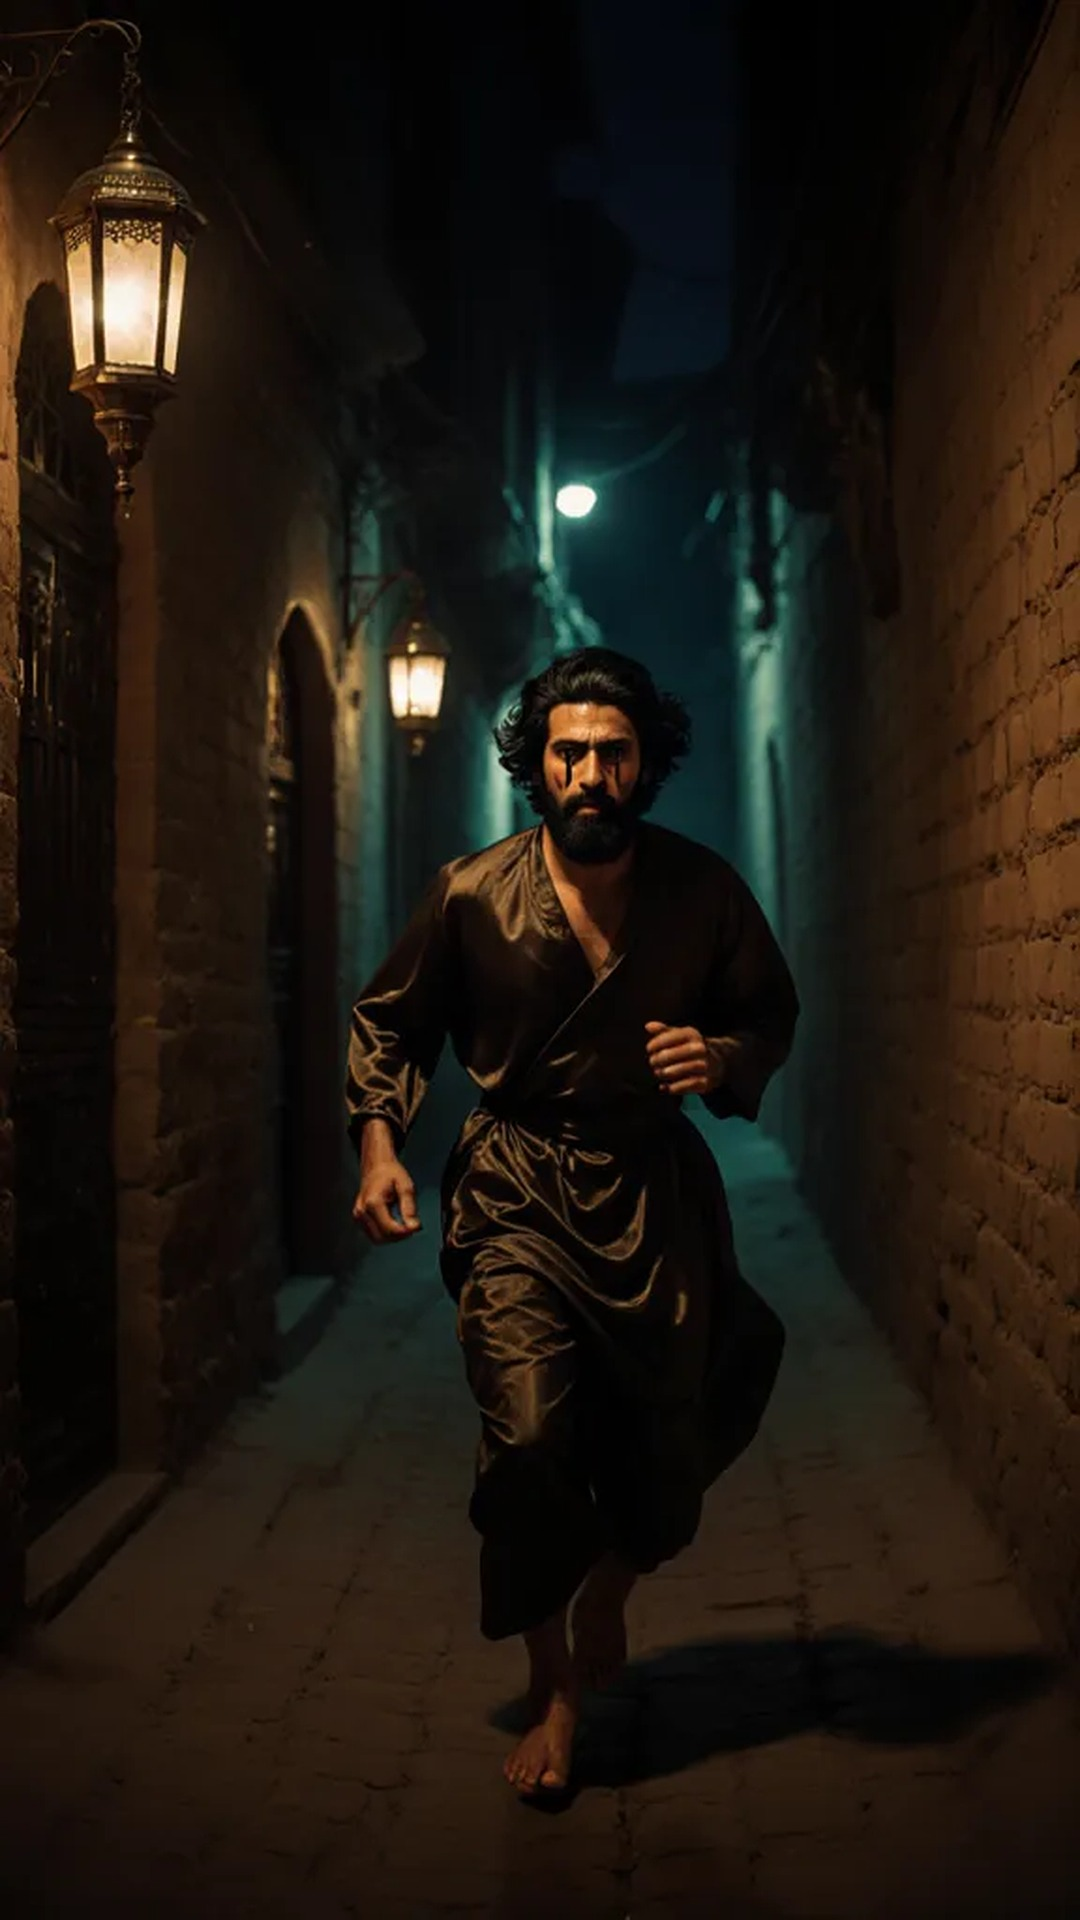
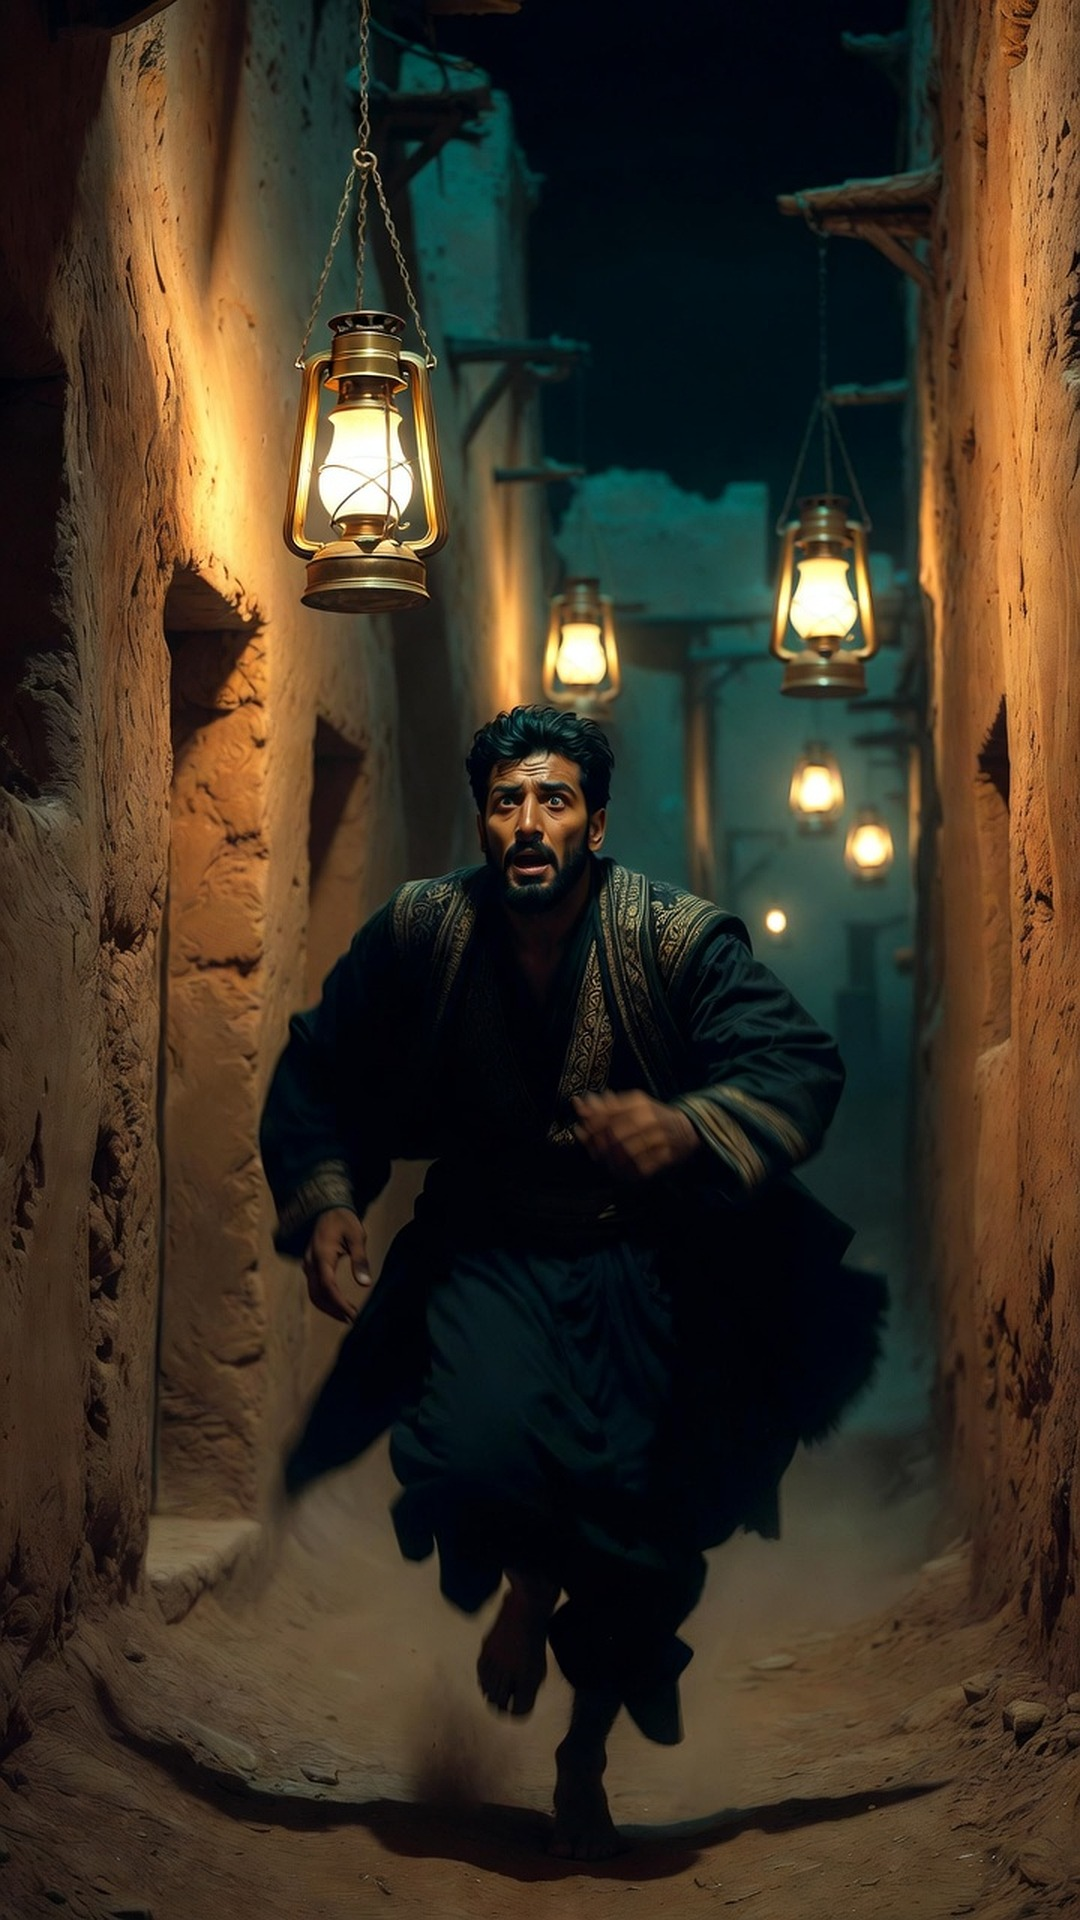
Bishr v2: user-generated shots replace repeats; one image per moment
Claude-Session: https://claude.ai/code/session_01WFvCcbMQgWaeBe2dqRC8qC

diff --git a/videos/bishr/film/data.js b/videos/bishr/film/data.js
@@ -1,1 +1,1 @@
-const DATA = {"duration": 81.589, "shots": [{"img": "B1", "a": 0.0, "b": 4.6, "m": "push", "bright": 1.18, "dust": 0.6, "shake": 0.3}, {"img": "B8", "a": 4.6, "b": 7.0, "m": "in", "dust": 0.8}, {"img": "B1", "a": 7.0, "b": 9.66, "m": "in", "bright": 1.15}, {"img": "B2", "a": 9.66, "b": 14.26, "m": "left", "flick": 0.8}, {"img": "B2c", "a": 14.26, "b": 18.501, "m": "in", "flick": 0.8}, {"img": "B3", "a": 18.501, "b": 22.101, "m": "in", "glow": [0.5, 0.43, 0.05], "rays": 0.3}, {"img": "B4", "a": 22.101, "b": 25.266, "m": "push", "flick": 0.5}, {"img": "B3c", "a": 25.266, "b": 29.866, "m": "push", "glow": [0.5, 0.4, 0.09], "rays": 0.4}, {"img": "B4c", "a": 29.866, "b": 33.866, "m": "in", "flick": 0.4}, {"img": "B4c", "a": 33.866, "b": 35.176, "m": "push", "shake": 0.4}, {"img": "B3c", "a": 35.176, "b": 42.326, "m": "orbit", "glow": [0.5, 0.4, 0.09], "rays": 0.5}, {"img": "B2c", "a": 42.326, "b": 46.326, "m": "in", "flick": 0.7}, {"img": "B5", "a": 46.326, "b": 50.52, "m": "push", "flick": 0.6, "desat": 0.15}, {"img": "B5", "a": 50.52, "b": 54.12, "m": "push", "flick": 0.4, "desat": 0.25}, {"img": "B8", "a": 54.12, "b": 56.12, "m": "push", "dust": 0.9}, {"img": "B1", "a": 56.12, "b": 59.015, "m": "push", "bright": 1.1, "shake": 0.5, "dust": 0.7}, {"img": "B6c", "a": 59.015, "b": 63.595, "m": "push", "rays": 0.6, "warm": 1}, {"img": "B6d", "a": 63.595, "b": 67.795, "m": "in", "rays": 0.5, "warm": 1}, {"img": "B7", "a": 67.795, "b": 73.246, "m": "in", "dust": 0.5, "warm": 1}, {"img": "B8", "a": 73.246, "b": 76.646, "m": "out", "dust": 0.6, "warm": 1}, {"img": "B7", "a": 76.646, "b": 81.589, "m": "out", "dust": 0.5, "warm": 1, "rays": 0.3}], "words": [{"tag": "hook", "who": "R", "words": [["رجلٌ", 0.0, 0.66], ["ثريّ", 0.66, 1.32], ["خرج", 2.0, 2.76], ["من", 2.76, 3.02], ["قصره", 3.02, 3.54], ["حافياً،", 3.54, 4.42], ["يركضُ", 4.98, 5.64], ["في", 5.64, 5.9], ["أزقّة", 5.9, 6.42], ["بغداد", 6.42, 7.28], ["وهو", 7.28, 8.26], ["يبكي.", 8.26, 8.8]]}, {"tag": "intro", "who": "R", "words": [["يُروى", 9.66, 10.46], ["أنّ", 10.46, 10.68], ["بِشراً", 10.68, 11.2], ["كان", 11.2, 11.44], ["من", 11.44, 11.78], ["أثرياءِ", 11.78, 12.42], ["بغداد", 12.42, 13.14], ["في", 13.14, 13.96], ["دارِه", 13.96, 14.46], ["كلَّ", 14.46, 14.74], ["ليلةٍ", 14.74, 15.34], ["غناءٌ", 15.34, 16.12], ["ولهوٌ", 16.12, 16.72], ["وشراب.", 16.72, 17.64]]}, {"tag": "pass", "who": "R", "words": [["ومرّ", 18.501, 19.221], ["الإمامُ", 19.221, 19.841], ["موسى", 19.841, 20.361], ["الكاظم", 20.361, 20.921], ["بباب", 20.921, 21.381], ["داره", 21.381, 21.941], ["فخرجت", 22.501, 23.121], ["جاريةٌ", 23.121, 23.661], ["ترمي", 23.661, 24.241], ["القُمامة.", 24.241, 24.941]]}, {"tag": "ask", "who": "I", "words": [["يا", 25.266, 25.866], ["جارية", 25.866, 26.946], ["صاحبُ", 27.866, 28.746], ["هذه", 28.746, 29.206], ["الدار،", 29.206, 30.206], ["حُرٌّ", 30.966, 31.726], ["أم", 31.726, 32.886], ["عبد؟", 32.886, 33.426]]}, {"tag": "girl", "who": "G", "words": [["بل", 33.866, 34.746], ["حُرّ!", 33.866, 34.746]]}, {"tag": "answer", "who": "I", "words": [["صدقتِ", 35.176, 36.376], ["لو", 36.376, 37.496], ["كان", 37.496, 37.936], ["عبداً", 37.936, 39.516], ["لاستحيا", 39.516, 40.576], ["من", 40.576, 40.896], ["مولاه.", 40.896, 41.576]]}, {"tag": "inside", "who": "R", "words": [["ومضى.", 42.326, 43.746], ["فدخلت", 43.746, 44.526], ["الجارية", 44.526, 45.126], ["فسألها", 45.126, 46.366], ["بِشر:", 46.366, 46.746], ["ما", 46.746, 47.266], ["الذي", 47.266, 47.546], ["أبطأكِ؟", 47.546, 48.146], ["فحدّثته", 48.146, 49.526], ["بما", 49.526, 49.826], ["قال.", 49.826, 50.026]]}, {"tag": "run", "who": "R", "words": [["فوقعت", 50.52, 51.36], ["الكلمةُ", 51.36, 51.98], ["في", 51.98, 52.16], ["قلبه", 52.16, 52.72], ["فقام", 52.72, 53.68], ["مسرعاً،", 53.68, 54.36], ["ولم", 54.36, 55.06], ["يلبس", 55.06, 55.54], ["نعليه", 55.54, 55.96], ["وركض", 55.96, 57.02], ["خلفَ", 57.02, 57.4], ["الإمام", 57.4, 57.94], ["حافياً.", 57.94, 58.78]]}, {"tag": "bishr", "who": "B", "words": [["يا", 59.015, 59.515], ["سيّدي", 59.515, 60.495], ["بل", 60.495, 61.895], ["عبد!", 60.495, 61.895], ["بل", 61.895, 62.875], ["عبد!", 61.895, 62.875]]}, {"tag": "repent", "who": "R", "words": [["فتاب", 63.595, 64.355], ["على", 64.355, 64.595], ["يديه", 64.595, 65.295], ["ومن", 65.295, 66.095], ["يومِها", 66.095, 66.655], ["لم", 66.655, 67.195], ["يلبس", 67.195, 67.755], ["نعلاً", 67.755, 68.175], ["قطّ،", 68.175, 68.555], ["حتى", 68.555, 69.435], ["عرفه", 69.435, 69.975], ["الناسُ", 69.975, 70.395], ["باسمه:", 70.395, 71.255], ["بِشرٌ", 71.255, 71.975], ["الحافي.", 71.975, 72.595]]}, {"tag": "end", "who": "R", "words": [["كلمةٌ", 73.246, 73.846], ["واحدة", 73.846, 74.586], ["غيّرت", 74.586, 75.506], ["حياته.", 75.506, 76.146], ["أيُّ", 76.426, 77.086], ["كلمةٍ", 77.086, 77.746], ["غيّرت", 77.746, 78.906], ["حياتَك", 78.906, 79.486], ["أنت؟", 79.486, 79.966]]}], "segments": [{"tag": "hook", "who": "R", "start": 0.0, "end": 9.11, "text": "رجلٌ ثريّ… خرج من قصره حافياً، يركضُ في أزقّة بغداد… وهو يبكي."}, {"tag": "intro", "who": "R", "start": 9.66, "end": 18.251, "text": "يُروى أنّ بِشراً كان من أثرياءِ بغداد… في دارِه كلَّ ليلةٍ غناءٌ ولهوٌ وشراب."}, {"tag": "pass", "who": "R", "start": 18.501, "end": 24.966, "text": "ومرّ الإمامُ موسى الكاظم بباب داره… فخرجت جاريةٌ ترمي القُمامة."}, {"tag": "ask", "who": "I", "start": 25.266, "end": 33.666, "text": "يا جارية… صاحبُ هذه الدار، حُرٌّ أم عبد؟"}, {"tag": "girl", "who": "G", "start": 33.866, "end": 34.826, "text": "بل حُرّ!"}, {"tag": "answer", "who": "I", "start": 35.176, "end": 41.926, "text": "صدقتِ… لو كان عبداً… لاستحيا من مولاه."}, {"tag": "inside", "who": "R", "start": 42.326, "end": 50.37, "text": "ومضى. فدخلت الجارية… فسألها بِشر: ما الذي أبطأكِ؟ فحدّثته بما قال."}, {"tag": "run", "who": "R", "start": 50.52, "end": 58.815, "text": "فوقعت الكلمةُ في قلبه… فقام مسرعاً، ولم يلبس نعليه… وركض خلفَ الإمام حافياً."}, {"tag": "bishr", "who": "B", "start": 59.015, "end": 63.195, "text": "يا سيّدي… بل عبد! بل عبد!"}, {"tag": "repent", "who": "R", "start": 63.595, "end": 72.846, "text": "فتاب على يديه… ومن يومِها لم يلبس نعلاً قطّ، حتى عرفه الناسُ باسمه: بِشرٌ الحافي."}, {"tag": "end", "who": "R", "start": 73.246, "end": 80.089, "text": "كلمةٌ واحدة… غيّرت حياته. أيُّ كلمةٍ… غيّرت حياتَك أنت؟"}]};
+const DATA = {"duration": 81.589, "shots": [{"img": "B1", "a": 0.0, "b": 4.6, "m": "push", "bright": 1.08, "dust": 0.6, "shake": 0.3}, {"img": "B15", "a": 4.6, "b": 9.66, "m": "in", "dust": 0.8}, {"img": "B2", "a": 9.66, "b": 14.26, "m": "left", "flick": 0.8}, {"img": "B2c", "a": 14.26, "b": 18.501, "m": "in", "flick": 0.8}, {"img": "B3", "a": 18.501, "b": 22.101, "m": "in", "glow": [0.5, 0.43, 0.05], "rays": 0.3}, {"img": "B4", "a": 22.101, "b": 25.266, "m": "push", "flick": 0.5}, {"img": "B12", "a": 25.266, "b": 33.866, "m": "orbit", "rays": 0.3, "dust": 0.4}, {"img": "B13", "a": 33.866, "b": 35.176, "m": "push", "shake": 0.4}, {"img": "B3c", "a": 35.176, "b": 42.326, "m": "push", "glow": [0.5, 0.4, 0.09], "rays": 0.5}, {"img": "B11", "a": 42.326, "b": 50.52, "m": "in", "flick": 0.7}, {"img": "B5", "a": 50.52, "b": 54.12, "m": "push", "flick": 0.4, "desat": 0.2}, {"img": "B9", "a": 54.12, "b": 56.12, "m": "push", "shake": 0.5, "flick": 0.4}, {"img": "B10", "a": 56.12, "b": 59.015, "m": "in", "dust": 0.6}, {"img": "B6c", "a": 59.015, "b": 63.595, "m": "push", "rays": 0.6, "warm": 1}, {"img": "B6d", "a": 63.595, "b": 67.795, "m": "in", "rays": 0.5, "warm": 1}, {"img": "B7", "a": 67.795, "b": 73.246, "m": "in", "dust": 0.5, "warm": 1}, {"img": "B14", "a": 73.246, "b": 81.589, "m": "in", "rays": 0.4, "dust": 0.4, "warm": 1}], "words": [{"tag": "hook", "who": "R", "words": [["رجلٌ", 0.0, 0.66], ["ثريّ", 0.66, 1.32], ["خرج", 2.0, 2.76], ["من", 2.76, 3.02], ["قصره", 3.02, 3.54], ["حافياً،", 3.54, 4.42], ["يركضُ", 4.98, 5.64], ["في", 5.64, 5.9], ["أزقّة", 5.9, 6.42], ["بغداد", 6.42, 7.28], ["وهو", 7.28, 8.26], ["يبكي.", 8.26, 8.8]]}, {"tag": "intro", "who": "R", "words": [["يُروى", 9.66, 10.46], ["أنّ", 10.46, 10.68], ["بِشراً", 10.68, 11.2], ["كان", 11.2, 11.44], ["من", 11.44, 11.78], ["أثرياءِ", 11.78, 12.42], ["بغداد", 12.42, 13.14], ["في", 13.14, 13.96], ["دارِه", 13.96, 14.46], ["كلَّ", 14.46, 14.74], ["ليلةٍ", 14.74, 15.34], ["غناءٌ", 15.34, 16.12], ["ولهوٌ", 16.12, 16.72], ["وشراب.", 16.72, 17.64]]}, {"tag": "pass", "who": "R", "words": [["ومرّ", 18.501, 19.221], ["الإمامُ", 19.221, 19.841], ["موسى", 19.841, 20.361], ["الكاظم", 20.361, 20.921], ["بباب", 20.921, 21.381], ["داره", 21.381, 21.941], ["فخرجت", 22.501, 23.121], ["جاريةٌ", 23.121, 23.661], ["ترمي", 23.661, 24.241], ["القُمامة.", 24.241, 24.941]]}, {"tag": "ask", "who": "I", "words": [["يا", 25.266, 25.866], ["جارية", 25.866, 26.946], ["صاحبُ", 27.866, 28.746], ["هذه", 28.746, 29.206], ["الدار،", 29.206, 30.206], ["حُرٌّ", 30.966, 31.726], ["أم", 31.726, 32.886], ["عبد؟", 32.886, 33.426]]}, {"tag": "girl", "who": "G", "words": [["بل", 33.866, 34.746], ["حُرّ!", 33.866, 34.746]]}, {"tag": "answer", "who": "I", "words": [["صدقتِ", 35.176, 36.376], ["لو", 36.376, 37.496], ["كان", 37.496, 37.936], ["عبداً", 37.936, 39.516], ["لاستحيا", 39.516, 40.576], ["من", 40.576, 40.896], ["مولاه.", 40.896, 41.576]]}, {"tag": "inside", "who": "R", "words": [["ومضى.", 42.326, 43.746], ["فدخلت", 43.746, 44.526], ["الجارية", 44.526, 45.126], ["فسألها", 45.126, 46.366], ["بِشر:", 46.366, 46.746], ["ما", 46.746, 47.266], ["الذي", 47.266, 47.546], ["أبطأكِ؟", 47.546, 48.146], ["فحدّثته", 48.146, 49.526], ["بما", 49.526, 49.826], ["قال.", 49.826, 50.026]]}, {"tag": "run", "who": "R", "words": [["فوقعت", 50.52, 51.36], ["الكلمةُ", 51.36, 51.98], ["في", 51.98, 52.16], ["قلبه", 52.16, 52.72], ["فقام", 52.72, 53.68], ["مسرعاً،", 53.68, 54.36], ["ولم", 54.36, 55.06], ["يلبس", 55.06, 55.54], ["نعليه", 55.54, 55.96], ["وركض", 55.96, 57.02], ["خلفَ", 57.02, 57.4], ["الإمام", 57.4, 57.94], ["حافياً.", 57.94, 58.78]]}, {"tag": "bishr", "who": "B", "words": [["يا", 59.015, 59.515], ["سيّدي", 59.515, 60.495], ["بل", 60.495, 61.895], ["عبد!", 60.495, 61.895], ["بل", 61.895, 62.875], ["عبد!", 61.895, 62.875]]}, {"tag": "repent", "who": "R", "words": [["فتاب", 63.595, 64.355], ["على", 64.355, 64.595], ["يديه", 64.595, 65.295], ["ومن", 65.295, 66.095], ["يومِها", 66.095, 66.655], ["لم", 66.655, 67.195], ["يلبس", 67.195, 67.755], ["نعلاً", 67.755, 68.175], ["قطّ،", 68.175, 68.555], ["حتى", 68.555, 69.435], ["عرفه", 69.435, 69.975], ["الناسُ", 69.975, 70.395], ["باسمه:", 70.395, 71.255], ["بِشرٌ", 71.255, 71.975], ["الحافي.", 71.975, 72.595]]}, {"tag": "end", "who": "R", "words": [["كلمةٌ", 73.246, 73.846], ["واحدة", 73.846, 74.586], ["غيّرت", 74.586, 75.506], ["حياته.", 75.506, 76.146], ["أيُّ", 76.426, 77.086], ["كلمةٍ", 77.086, 77.746], ["غيّرت", 77.746, 78.906], ["حياتَك", 78.906, 79.486], ["أنت؟", 79.486, 79.966]]}], "segments": [{"tag": "hook", "who": "R", "start": 0.0, "end": 9.11, "text": "رجلٌ ثريّ… خرج من قصره حافياً، يركضُ في أزقّة بغداد… وهو يبكي."}, {"tag": "intro", "who": "R", "start": 9.66, "end": 18.251, "text": "يُروى أنّ بِشراً كان من أثرياءِ بغداد… في دارِه كلَّ ليلةٍ غناءٌ ولهوٌ وشراب."}, {"tag": "pass", "who": "R", "start": 18.501, "end": 24.966, "text": "ومرّ الإمامُ موسى الكاظم بباب داره… فخرجت جاريةٌ ترمي القُمامة."}, {"tag": "ask", "who": "I", "start": 25.266, "end": 33.666, "text": "يا جارية… صاحبُ هذه الدار، حُرٌّ أم عبد؟"}, {"tag": "girl", "who": "G", "start": 33.866, "end": 34.826, "text": "بل حُرّ!"}, {"tag": "answer", "who": "I", "start": 35.176, "end": 41.926, "text": "صدقتِ… لو كان عبداً… لاستحيا من مولاه."}, {"tag": "inside", "who": "R", "start": 42.326, "end": 50.37, "text": "ومضى. فدخلت الجارية… فسألها بِشر: ما الذي أبطأكِ؟ فحدّثته بما قال."}, {"tag": "run", "who": "R", "start": 50.52, "end": 58.815, "text": "فوقعت الكلمةُ في قلبه… فقام مسرعاً، ولم يلبس نعليه… وركض خلفَ الإمام حافياً."}, {"tag": "bishr", "who": "B", "start": 59.015, "end": 63.195, "text": "يا سيّدي… بل عبد! بل عبد!"}, {"tag": "repent", "who": "R", "start": 63.595, "end": 72.846, "text": "فتاب على يديه… ومن يومِها لم يلبس نعلاً قطّ، حتى عرفه الناسُ باسمه: بِشرٌ الحافي."}, {"tag": "end", "who": "R", "start": 73.246, "end": 80.089, "text": "كلمةٌ واحدة… غيّرت حياته. أيُّ كلمةٍ… غيّرت حياتَك أنت؟"}]};

diff --git a/videos/bishr/scripts/prep.py b/videos/bishr/scripts/prep.py
@@ -9,20 +9,19 @@ OUT = "film/assets/img"; os.makedirs(OUT, exist_ok=True)
 CROPS = {"B2c": ("B2", .30, .32, .70), "B3c": ("B3", .22, .22, .56), "B4c": ("B4", .18, .28, .62), "B8": ("B1_old", .22, .45, .56), "B6c": ("B6", .0, .30, .70), "B6d": ("B6", .0, .40, .58)}
 # جدول اللقطات: (الصورة، البداية، الحركة، خيارات)
 T = [
- ("B1", ("hook", 0.0), "push", dict(bright=1.18, dust=.6, shake=.3)),
- ("B8", ("hook", 4.6), "in", dict(dust=.8)),
- ("B1", ("hook", 7.0), "in", dict(bright=1.15)),
+ ("B1", ("hook", 0.0), "push", dict(bright=1.08, dust=.6, shake=.3)),
+ ("B15", ("hook", 4.6), "in", dict(dust=.8)),
  ("B2", ("intro", 0.0), "left", dict(flick=.8)), ("B2c", ("intro", 4.6), "in", dict(flick=.8)),
  ("B3", ("pass", 0.0), "in", dict(glow=[.50, .43, .05], rays=.3)), ("B4", ("pass", 3.6), "push", dict(flick=.5)),
- ("B3c", ("ask", 0.0), "push", dict(glow=[.50, .40, .09], rays=.4)), ("B4c", ("ask", 4.6), "in", dict(flick=.4)),
- ("B4c", ("girl", 0.0), "push", dict(shake=.4)),
- ("B3c", ("answer", 0.0), "orbit", dict(glow=[.50, .40, .09], rays=.5)),
- ("B2c", ("inside", 0.0), "in", dict(flick=.7)), ("B5", ("inside", 4.0), "push", dict(flick=.6, desat=.15)),
- ("B5", ("run", 0.0), "push", dict(flick=.4, desat=.25)), ("B8", ("run", 3.6), "push", dict(dust=.9)),
- ("B1", ("run", 5.6), "push", dict(bright=1.1, shake=.5, dust=.7)),
+ ("B12", ("ask", 0.0), "orbit", dict(rays=.3, dust=.4)),
+ ("B13", ("girl", 0.0), "push", dict(shake=.4)),
+ ("B3c", ("answer", 0.0), "push", dict(glow=[.50, .40, .09], rays=.5)),
+ ("B11", ("inside", 0.0), "in", dict(flick=.7)),
+ ("B5", ("run", 0.0), "push", dict(flick=.4, desat=.2)), ("B9", ("run", 3.6), "push", dict(shake=.5, flick=.4)),
+ ("B10", ("run", 5.6), "in", dict(dust=.6)),
  ("B6c", ("bishr", 0.0), "push", dict(rays=.6, warm=1)),
  ("B6d", ("repent", 0.0), "in", dict(rays=.5, warm=1)), ("B7", ("repent", 4.2), "in", dict(dust=.5, warm=1)),
- ("B8", ("end", 0.0), "out", dict(dust=.6, warm=1)), ("B7", ("end", 3.4), "out", dict(dust=.5, warm=1, rays=.3)),
+ ("B14", ("end", 0.0), "in", dict(rays=.4, dust=.4, warm=1)),
 ]
 
 FALLBACK = {}
